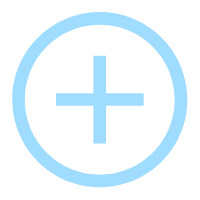
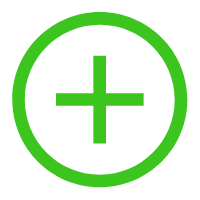
增加菜单和修改图标大小

Changed region(s): [[0.06, 0.06, 0.96, 0.96], [0.27, 0.27, 0.72, 0.72]]

diff --git a/page/subscription/pages/find/index.js b/page/subscription/pages/find/index.js
@@ -1,0 +1,49 @@
+const Promise = require('../../../../util/bluebird.min');
+const github = require('../../../../util/github');
+
+Page({
+  data: {
+    list: []
+  },
+  totle: 0,
+  count: 0,
+  onLoad: function () {
+    
+  },
+  onShow: function () {
+    this.data.list = []
+    this.load();
+  },
+  load: function () {
+    var list = github.getSubs();
+    this.totle = list.length;
+    this.count = 0;
+
+    if (0 === this.totle){
+      that.setData({
+        list: []
+      });
+    } else {
+      list.map(this.get, this);
+    }
+  },
+  get: function (item) {
+    var list = this.data.list;
+
+    var that = this;
+    github.getUserInfo(item).then(function (userinfo) {
+      that.count = that.count + 1;
+
+      userinfo = Object.assign({}, item, userinfo);
+      list.push(userinfo);
+      that.setData({
+        list: list
+      });
+    }).catch(function () {
+      that.count = that.count + 1;
+      that.setData({
+        list: list
+      });
+    });
+  }
+})

diff --git a/page/subscription/pages/user/index.js b/page/subscription/pages/user/index.js
@@ -1,0 +1,49 @@
+const Promise = require('../../../../util/bluebird.min');
+const github = require('../../../../util/github');
+
+Page({
+  data: {
+    list: []
+  },
+  totle: 0,
+  count: 0,
+  onLoad: function () {
+    
+  },
+  onShow: function () {
+    this.data.list = []
+    this.load();
+  },
+  load: function () {
+    var list = github.getSubs();
+    this.totle = list.length;
+    this.count = 0;
+
+    if (0 === this.totle){
+      that.setData({
+        list: []
+      });
+    } else {
+      list.map(this.get, this);
+    }
+  },
+  get: function (item) {
+    var list = this.data.list;
+
+    var that = this;
+    github.getUserInfo(item).then(function (userinfo) {
+      that.count = that.count + 1;
+
+      userinfo = Object.assign({}, item, userinfo);
+      list.push(userinfo);
+      that.setData({
+        list: list
+      });
+    }).catch(function () {
+      that.count = that.count + 1;
+      that.setData({
+        list: list
+      });
+    });
+  }
+})
